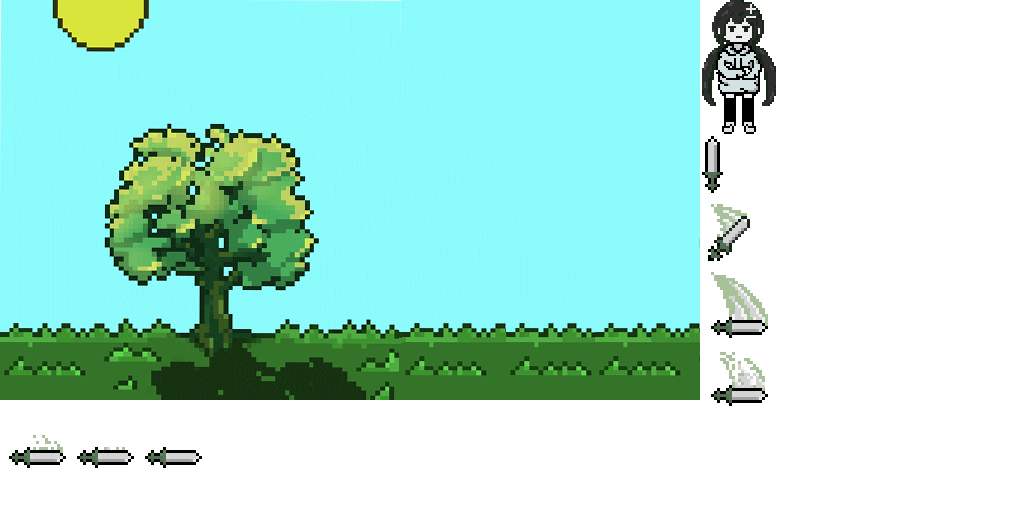
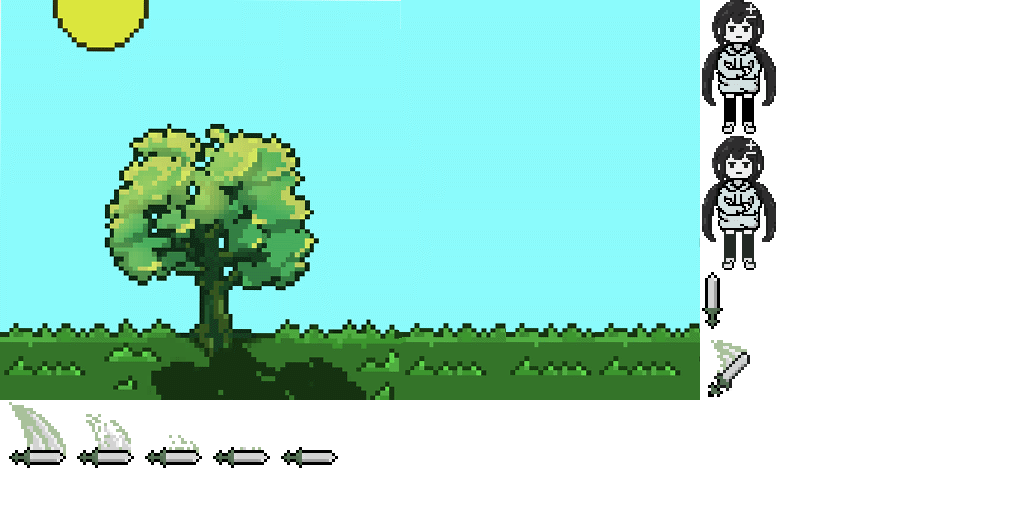
add

diff --git a/canvas/Mygame.js b/canvas/Mygame.js
@@ -3,7 +3,7 @@
 var p; // shortcut to reference prototypes
 var lib={};var ss={};var img={};
 lib.ssMetadata = [
-		{name:"Mygame_atlas_1", frames: [[0,0,700,400],[702,0,74,134],[702,136,66,66],[702,204,66,66],[702,272,66,66],[702,340,66,66],[0,402,66,66],[68,402,66,66],[136,402,66,66]]}
+		{name:"Mygame_atlas_1", frames: [[0,0,700,400],[702,0,74,134],[702,136,74,134],[702,272,66,66],[702,340,66,66],[0,402,66,66],[68,402,66,66],[136,402,66,66],[204,402,66,66],[272,402,66,66]]}
 ];
 
 
@@ -41,51 +41,58 @@ lib.ssMetadata = [
 
 
 
-(lib.sword01 = function() {
+(lib.inabakumori01png複製 = function() {
 	this.initialize(ss["Mygame_atlas_1"]);
 	this.gotoAndStop(2);
 }).prototype = p = new cjs.Sprite();
 
 
 
-(lib.sword02 = function() {
+(lib.sword01 = function() {
 	this.initialize(ss["Mygame_atlas_1"]);
 	this.gotoAndStop(3);
 }).prototype = p = new cjs.Sprite();
 
 
 
-(lib.sword03 = function() {
+(lib.sword02 = function() {
 	this.initialize(ss["Mygame_atlas_1"]);
 	this.gotoAndStop(4);
 }).prototype = p = new cjs.Sprite();
 
 
 
-(lib.sword04 = function() {
+(lib.sword03 = function() {
 	this.initialize(ss["Mygame_atlas_1"]);
 	this.gotoAndStop(5);
 }).prototype = p = new cjs.Sprite();
 
 
 
-(lib.sword05 = function() {
+(lib.sword04 = function() {
 	this.initialize(ss["Mygame_atlas_1"]);
 	this.gotoAndStop(6);
 }).prototype = p = new cjs.Sprite();
 
 
 
-(lib.sword06 = function() {
+(lib.sword05 = function() {
 	this.initialize(ss["Mygame_atlas_1"]);
 	this.gotoAndStop(7);
 }).prototype = p = new cjs.Sprite();
 
 
 
-(lib.sword07 = function() {
+(lib.sword06 = function() {
 	this.initialize(ss["Mygame_atlas_1"]);
 	this.gotoAndStop(8);
+}).prototype = p = new cjs.Sprite();
+
+
+
+(lib.sword07 = function() {
+	this.initialize(ss["Mygame_atlas_1"]);
+	this.gotoAndStop(9);
 }).prototype = p = new cjs.Sprite();
 // helper functions:
 
@@ -149,32 +156,54 @@ if (reversed == null) { reversed = false; }
 
 	// 圖層_1
 	this.instance = new lib.sword01();
-	this.instance.setTransform(1,1);
+	this.instance.setTransform(-7,-66);
 
 	this.instance_1 = new lib.sword02();
-	this.instance_1.setTransform(-1,1);
+	this.instance_1.setTransform(-7,-66);
 
 	this.instance_2 = new lib.sword03();
-	this.instance_2.setTransform(1,1);
+	this.instance_2.setTransform(-7,-66);
 
 	this.instance_3 = new lib.sword04();
-	this.instance_3.setTransform(1,1);
+	this.instance_3.setTransform(-7,-66);
 
 	this.instance_4 = new lib.sword05();
-	this.instance_4.setTransform(1,1);
+	this.instance_4.setTransform(-7,-66);
 
 	this.instance_5 = new lib.sword06();
-	this.instance_5.setTransform(1,1);
+	this.instance_5.setTransform(-7,-66);
 
 	this.instance_6 = new lib.sword07();
-	this.instance_6.setTransform(1,1);
+	this.instance_6.setTransform(-7,-66);
 
 	this.timeline.addTween(cjs.Tween.get({}).to({state:[{t:this.instance}]}).to({state:[{t:this.instance_1}]},3).to({state:[{t:this.instance_2}]},3).to({state:[{t:this.instance_3}]},3).to({state:[{t:this.instance_4}]},3).to({state:[{t:this.instance_5}]},3).to({state:[{t:this.instance_6}]},1).wait(1));
 
 	this._renderFirstFrame();
 
 }).prototype = p = new cjs.MovieClip();
-p.nominalBounds = new cjs.Rectangle(-1,1,68,66);
+p.nominalBounds = new cjs.Rectangle(-7,-66,66,66);
+
+
+(lib.Inabakumori01 = function(mode,startPosition,loop,reversed) {
+if (loop == null) { loop = true; }
+if (reversed == null) { reversed = false; }
+	var props = new Object();
+	props.mode = mode;
+	props.startPosition = startPosition;
+	props.labels = {};
+	props.loop = loop;
+	props.reversed = reversed;
+	cjs.MovieClip.apply(this,[props]);
+
+	// 圖層_1
+	this.instance = new lib.inabakumori01png複製();
+	this.instance.setTransform(-37,-66);
+
+	this.timeline.addTween(cjs.Tween.get(this.instance).wait(1));
+
+	this._renderFirstFrame();
+
+}).prototype = getMCSymbolPrototype(lib.Inabakumori01, new cjs.Rectangle(-37,-66,74,134), null);
 
 
 (lib.Inabakumori = function(mode,startPosition,loop,reversed) {
@@ -190,12 +219,13 @@ if (reversed == null) { reversed = false; }
 
 	// 圖層_1
 	this.instance = new lib.inabakumori01();
+	this.instance.setTransform(-37,-67);
 
 	this.timeline.addTween(cjs.Tween.get(this.instance).wait(1));
 
 	this._renderFirstFrame();
 
-}).prototype = getMCSymbolPrototype(lib.Inabakumori, new cjs.Rectangle(0,0,74,134), null);
+}).prototype = getMCSymbolPrototype(lib.Inabakumori, new cjs.Rectangle(-37,-67,74,134), null);
 
 
 // stage content:
@@ -212,13 +242,13 @@ if (reversed == null) { reversed = false; }
 
 	// 圖層_2
 	this.instance = new lib.Sword();
-	this.instance.setTransform(380.3,197,1,1,0,0,0,33,33);
+	this.instance.setTransform(380.3,249.25,1,1,0,0,0,33,33);
 
 	this.timeline.addTween(cjs.Tween.get(this.instance).wait(1));
 
 	// 圖層_1
 	this.instance_1 = new lib.Inabakumori();
-	this.instance_1.setTransform(66,278,1,1,0,0,0,37,67);
+	this.instance_1.setTransform(98.1,400,1,1,0,0,0,37,67);
 
 	this.instance_2 = new lib.backgroundtree_700x400();
 
@@ -237,7 +267,7 @@ lib.properties = {
 	color: "#FFFFFF",
 	opacity: 1.00,
 	manifest: [
-		{src:"images/Mygame_atlas_1.png?1641021545657", id:"Mygame_atlas_1"}
+		{src:"images/Mygame_atlas_1.png?1641045225995", id:"Mygame_atlas_1"}
 	],
 	preloads: []
 };

diff --git a/canvas/Game.html b/canvas/Game.html
@@ -6,6 +6,7 @@
     <meta http-equiv="X-UA-Compatible" content="IE=edge">
     <meta name="viewport" content="width=, initial-scale=1.0">
     <title>MyGame</title>
+    <link rel="icon" href="images/sword-3.png" sizes="32x32">
     <link rel="stylesheet" href="../css/MyGame.css">
     <script src="https://code.createjs.com/1.0.0/createjs.min.js"></script>
     <script src="Mygame.js?1640936500373"></script>
@@ -46,54 +47,70 @@
             stage = new lib.Stage(canvas);
 
             //programming start 
-
+            var speed = 5;
+            var isFlyKeydown = false;
             var isKeydown = false;
-
+            var direction = 1;
+            var directionY = 1;
+            window.addEventListener("keydown", attackfn);
             window.addEventListener("keydown", keydownfn);
             window.addEventListener("keyup", keyupfn);
+            window.addEventListener("keydown", flykeydownfn);
+            window.addEventListener("keyup", flykeyupfn);
 
             var weapon = new lib.Sword();
             weapon.x = 100;
-            weapon.y = 100;
+            weapon.y = 200;
             weapon.scale = 2;
             exportRoot.addChild(weapon);
 
-            var character = new lib.Inabakumori();
+            function attackfn(e){
+                if(e.keyCode == 32){
+                    weapon.gotoAndPlay("attack");
+                }
+
+            }
+
+            var character = new lib.Inabakumori01();
             var characterClick = false;
-            character.x = 280;
-            character.y = 40;
-            exportRoot.addChild(character);
+            character.x = 320;
+            character.y = 100;
+            exportRoot.addChildAt(character,2);
 
             character.addEventListener("click", () => {
                 if (characterClick == false) {
-                    dropTransition = 500;
                     characterClick = true;
+                    dropDel = false;
                     console.log(dropTime);
                 } else {
-                    dropTransition = 3000;
                     characterClick = false;
+                    dropDel = true;
                     console.log(dropTime);
-
-
                 }
-
             })
 
             //drop 
-            var dropTime = 30;
-            var dropTransition = 3000;
+            var dropDel = true;
+            var dropTime = 20;
+            var dropTransition = 1500;
             var drop = setInterval(() => {
+                if(dropDel == true) return;
                 var coin = new lib.Sword();
                 coin.x = Math.floor(Math.random() * (660 - 30) + 30);
-                coin.y = -40;
-                coin.scale = Math.random() * 2 + 0.5;
+                coin.y = -120;
+                coin.scale = Math.random() * 1.5 + 0.8;
                 coin.rotation = Math.floor(Math.random() * 360);
 
                 exportRoot.addChildAt(coin, 1); 
 
                 createjs.Tween.get(coin)
-                    .to({ y: 500 }, dropTransition)
-                    .call(() => {
+                .to({ x:character.x -60,y:character.y -20,rotation:90,scale:1.5}, 0)
+                .to({ x:1800*direction,y:Math.random()*600 -100}, dropTransition/1.5)
+                .to({ rotation:180,x:Math.random()*(700-20) +20,y:-150,scale:Math.random()*1.5 + 0.5,rotation:Math.random()*360}, 0)
+                .to({ y:Math.random()*600 +400}, dropTransition)
+
+
+                .call(() => {
                         exportRoot.removeChild(coin);
 
                     });
@@ -101,21 +118,43 @@
             }, dropTime);
 
 
-
+        // move function
             function keydownfn(e) {
                 if (isKeydown == true) return;
-                if (e.keyCode == 32) {
+                if(e.keyCode == 37 || e.keyCode == 39){
                     isKeydown = true;
-                    weapon.gotoAndPlay("attack");
+                    direction = e.keyCode == 39 ? 1 : -1;
+                    console.log(direction);
                 }
             }
             function keyupfn(e) {
                 isKeydown = false;
                 // weapon.gotoAndPlay("idle");
-
+            }
+            function flykeydownfn(e) {
+                if (isFlyKeydown == true) return;
+                if(e.keyCode == 38 || e.keyCode == 40){
+                    isFlyKeydown = true;
+                    directionY = e.keyCode == 38 ? 1 : -1;
+                }    
+            }
+            function flykeyupfn(e) {
+                isFlyKeydown = false;
             }
 
 
+            createjs.Ticker.addEventListener("tick",tickFn);
+            function tickFn(e){
+                if(isKeydown == true){
+                        character.x += speed * direction;
+                        character.scaleX = direction;
+                        console.log(character.x);
+                }
+                if(isFlyKeydown == true){
+                        character.y -= speed * directionY;
+                        console.log(character.y);
+                }
+            }
 
 
 

diff --git a/canvas/Mygame.html b/canvas/Mygame.html
@@ -14,7 +14,7 @@
 <title>Mygame</title>
 <!-- write your code here -->
 <script src="https://code.createjs.com/1.0.0/createjs.min.js"></script>
-<script src="Mygame.js?1641021545681"></script>
+<script src="Mygame.js?1641045226049"></script>
 <script>
 var canvas, stage, exportRoot, anim_container, dom_overlay_container, fnStartAnimation;
 function init() {
